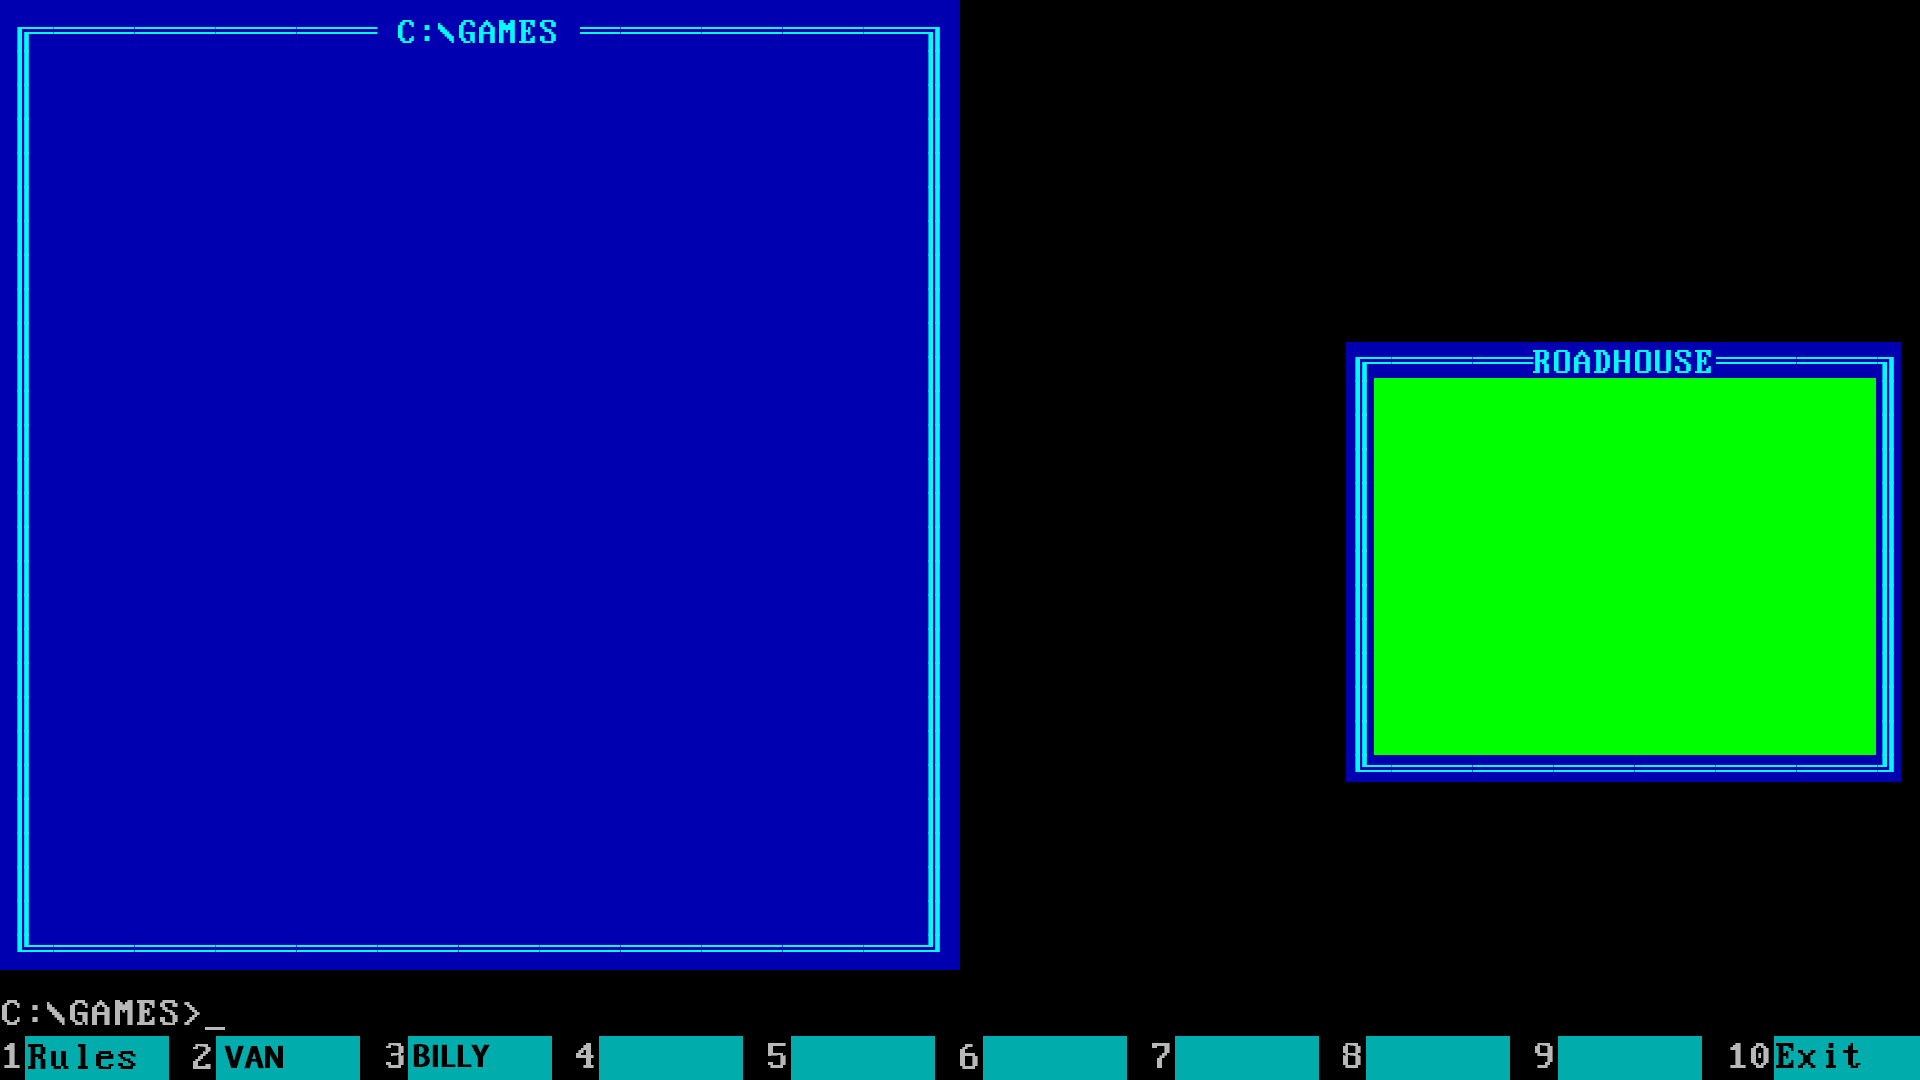
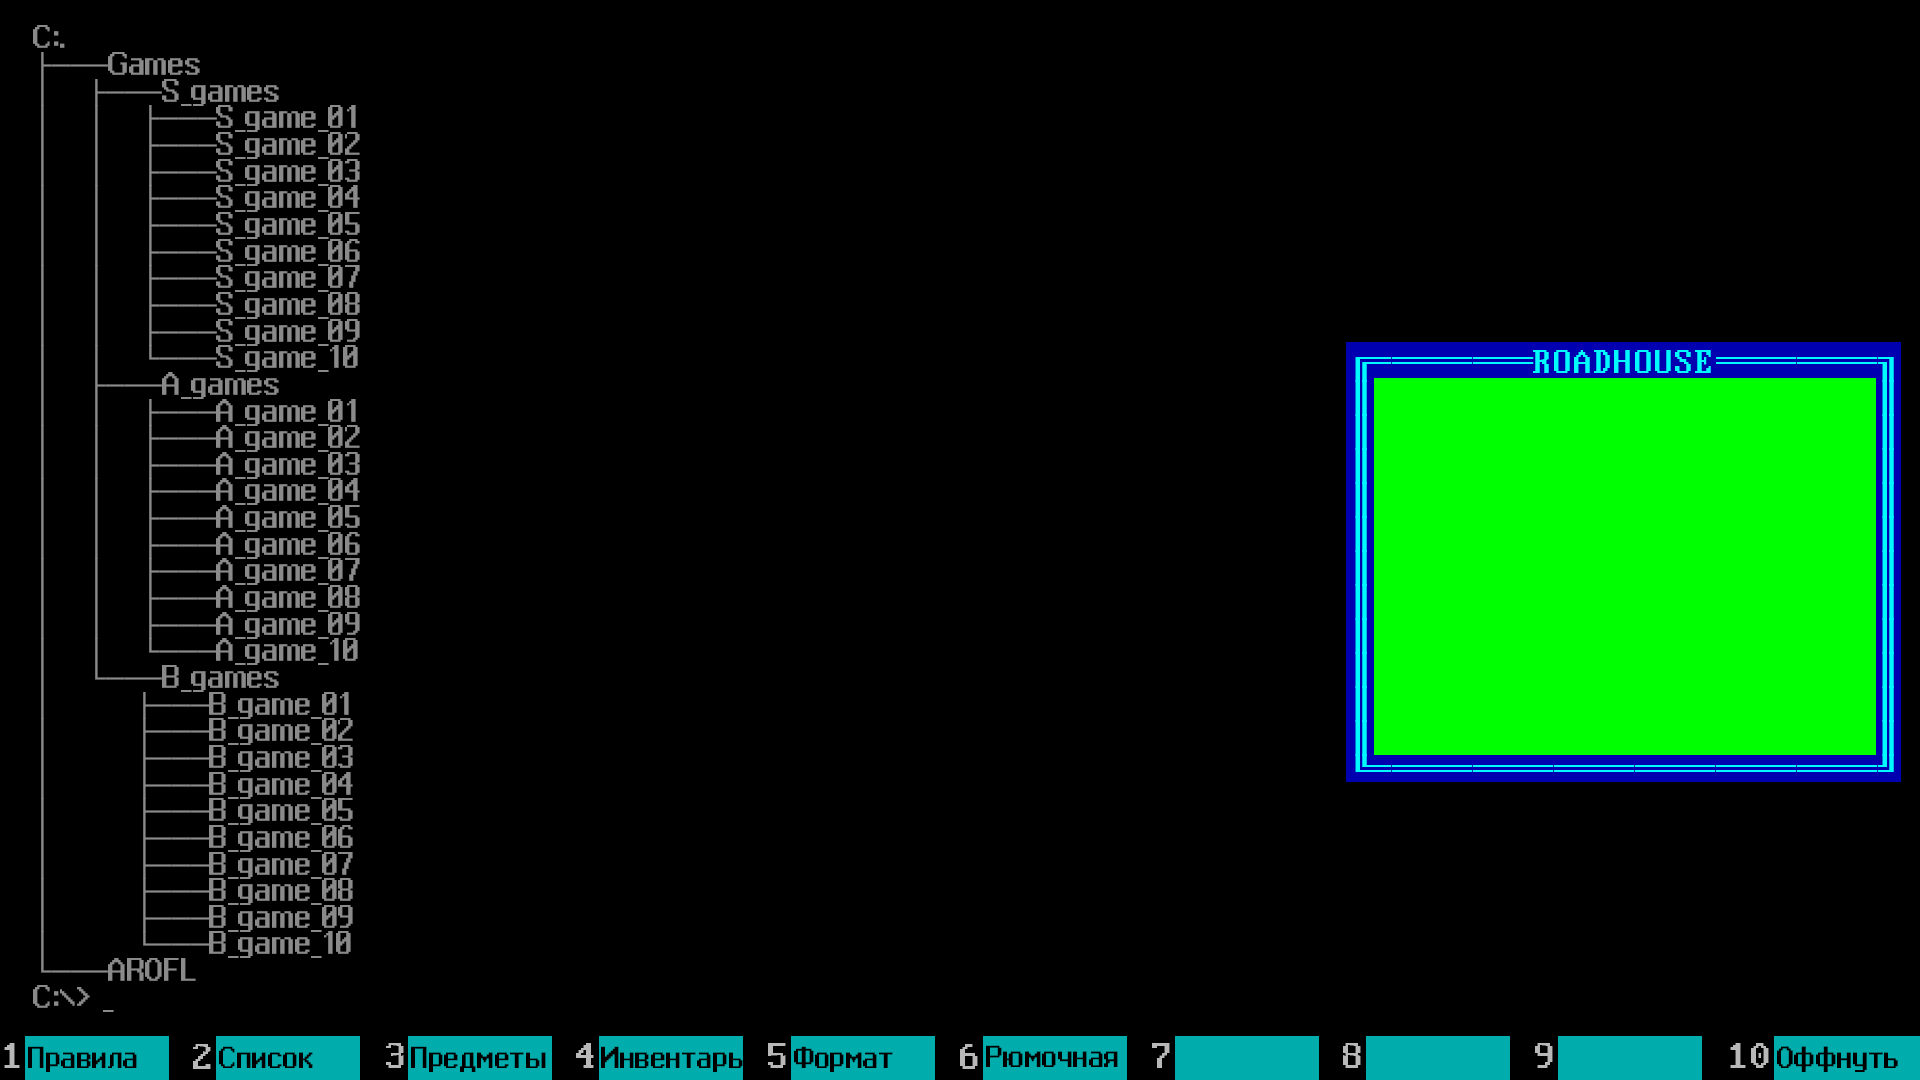
gameslist template added

diff --git a/scripts/start.js b/scripts/start.js
@@ -14,8 +14,6 @@ var Menu = new Phaser.Class({
     },
 
     create: function () {
-      var windowWidth = window.innerWidth;
-      var widnowHeight = window.innerHeight;
       this.add.image(windowWidth / 2, widnowHeight / 2, 'dosBackground');
       var floppySound = this.sound.add('floppy');
 
@@ -27,13 +25,19 @@ var Menu = new Phaser.Class({
 
         this.input.keyboard.once('keyup-TWO', function () {
             floppySound.play();
-            this.scene.start('demo', { id: 1, image: 'van.png' });
+            this.scene.start('glist', 0);
 
         }, this);
 
-        this.input.keyboard.once('keyup-THREE', function () {
+        this.input.keyboard.once('keyup-EIGHT', function () {
             floppySound.play();
-            this.scene.start('demo', { id: 2, image: 'billy.png' });
+            this.scene.start('demo', { id: 8, image: 'van.png' });
+
+        }, this);
+
+        this.input.keyboard.once('keyup-NINE', function () {
+            floppySound.play();
+            this.scene.start('demo', { id: 9, image: 'billy.png' });
 
         }, this);
 
@@ -72,8 +76,7 @@ var Demo = new Phaser.Class({
     },
 
     create: function () {
-        var windowWidth = window.innerWidth;
-        var widnowHeight = window.innerHeight;
+
         this.add.image(windowWidth / 2, widnowHeight / 2, 'dosBackground');
         this.add.image(windowWidth / 2, widnowHeight / 2, 'pic' + this.imageID);
 
@@ -84,13 +87,51 @@ var Demo = new Phaser.Class({
 
 });
 
+var GamesList = new Phaser.Class({
+
+    Extends: Phaser.Scene,
+
+    initialize:
+
+    function GamesList () {
+        Phaser.Scene.call(this, { key: 'glist' });
+    },
+
+    init: function () {
+
+    },
+
+    preload: function () {
+        this.load.image('gamesPanelImage', 'assets/dos/pics/games_panel.png');
+    },
+
+    create: function () {
+        this.add.image(windowWidth / 2, widnowHeight / 2, 'dosBackground');
+        this.add.image(windowWidth / 2, widnowHeight / 2, 'gamesPanelImage');
+
+        this.input.keyboard.on('keydown-ESC', function () {
+            this.scene.start('menu');
+        }, this);
+
+        var text = this.add.text(100, 100, 'Big FUCKING text', { fontFamily: 'swissFont', font:'24px', fill: '#ffffff' });
+
+        // text.setText([
+        //   // 'Level: ' + this.data.get('level')
+        //   'text for gameslist panel'
+        // ]);
+    }
+
+});
+
 var config = {
     type: Phaser.AUTO,
     width: 1920,
     height: 1080,
     pixelArt: true,
     parent: 'childhood-games',
-    scene: [ Menu, Demo ]
+    scene: [ Menu, Demo, GamesList ]
 };
 
 var game = new Phaser.Game(config);
+var windowWidth = window.innerWidth;
+var widnowHeight = window.innerHeight;

diff --git a/scripts/lists.js b/scripts/lists.js
@@ -1,0 +1,92 @@
+import Phaser from 'phaser'
+
+export default class MainMenuScene extends Phaser.Scene
+{
+	private cursors!: Phaser.Types.Input.Keyboard.CursorKeys
+
+  private buttons: Phaser.GameObjects.Image[] = []
+	private selectedButtonIndex = 0
+  private buttonSelector!: Phaser.GameObjects.Image
+
+	constructor()
+	{
+		super('main-menu')
+	}
+
+	init()
+	{
+		this.cursors = this.input.keyboard.createCursorKeys()
+	}
+
+	preload()
+    {
+		this.load.image('glass-panel', 'assets/glassPanel.png')
+		this.load.image('cursor-hand', 'assets/cursor_hand.png')
+    }
+
+    create()
+    {
+  	const { width, height } = this.scale
+
+  	// Play button
+  	const playButton = this.add.image(width * 0.5, height * 0.6, 'glass-panel')
+  		.setDisplaySize(150, 50)
+
+  	this.add.text(playButton.x, playButton.y, 'Play')
+  		.setOrigin(0.5)
+
+  	// Settings button
+  	const settingsButton = this.add.image(playButton.x, playButton.y + playButton.displayHeight + 10, 'glass-panel')
+  		.setDisplaySize(150, 50)
+
+  	this.add.text(settingsButton.x, settingsButton.y, 'Settings')
+  		.setOrigin(0.5)
+
+  	// Credits button
+  	const creditsButton = this.add.image(settingsButton.x, settingsButton.y + settingsButton.displayHeight + 10, 'glass-panel')
+  		.setDisplaySize(150, 50)
+
+  	this.add.text(creditsButton.x, creditsButton.y, 'Credits')
+  		.setOrigin(0.5)
+
+      this.buttons.push(playButton)
+	this.buttons.push(settingsButton)
+	this.buttons.push(creditsButton)
+
+  this.buttonSelector = this.add.image(0, 0, 'cursor-hand')
+  }
+
+	selectButton(index: number)
+	{
+		// TODO
+	}
+
+	selectNextButton(change = 1)
+	{
+		// TODO
+	}
+
+	confirmSelection()
+	{
+		// TODO
+	}
+
+	update()
+	{
+		const upJustPressed = Phaser.Input.Keyboard.JustDown(this.cursors.up!)
+		const downJustPressed = Phaser.Input.Keyboard.JustDown(this.cursors.down!)
+		const spaceJustPressed = Phaser.Input.Keyboard.JustDown(this.cursors.space!)
+
+		if (upJustPressed)
+		{
+			this.selectNextButton(-1)
+		}
+		else if (downJustPressed)
+		{
+			this.selectNextButton(1)
+		}
+		else if (spaceJustPressed)
+		{
+			this.confirmSelection()
+		}
+	}

diff --git a/index.html b/index.html
@@ -3,9 +3,10 @@
 <head>
   <meta charset="utf-8">
   <!-- <meta http-equiv="Permissions-Policy" content="interest-cohort=()"></meta> -->
-  <!-- <link rel="stylesheet" href="styles/horrorWheel.css"> -->
+  <link rel="stylesheet" href="styles/style.css">
   <title>Old Games Event</title>
   <!-- <script src="https://cdn.jsdelivr.net/npm/phaser@3.15.1/dist/phaser-arcade-physics.min.js"></script> -->
+  <link rel="preload" as="font" href="assets/fonts/swisssienarusbydaymarius.ttf" type="font/ttf" />
   <script type="text/javascript" src="scripts/phaser.js"></script>
 </head>
 <body>

diff --git a/styles/style.css b/styles/style.css
@@ -1,0 +1,4 @@
+@font-face {
+    font-family: swissFont;
+    src: url('../assets/fonts/swisssienarusbydaymarius.ttf');
+}
